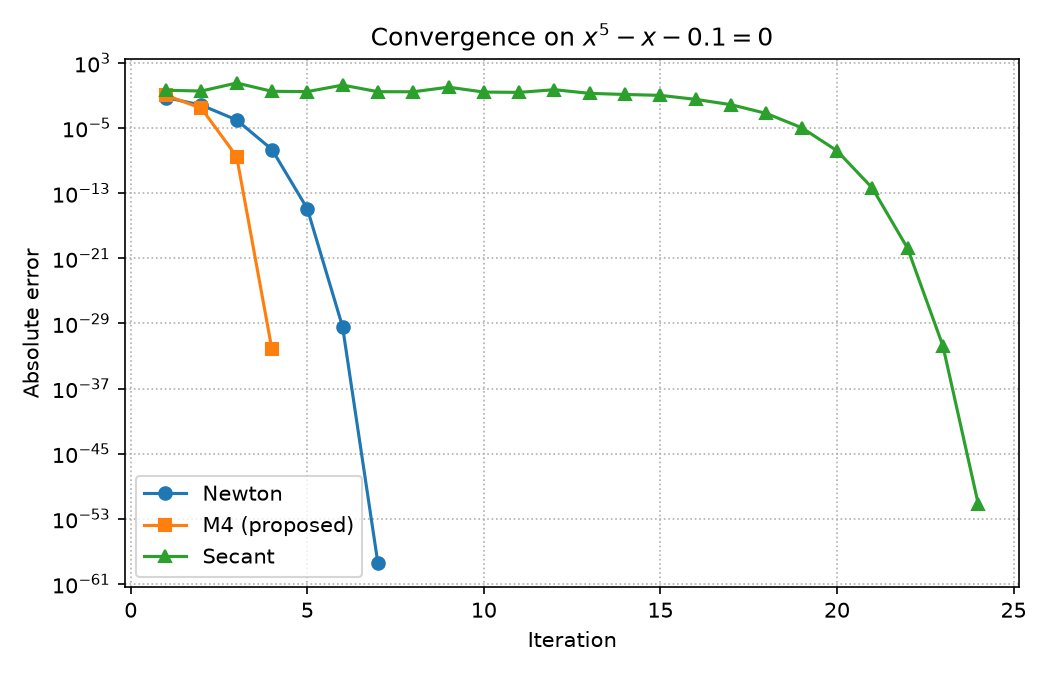
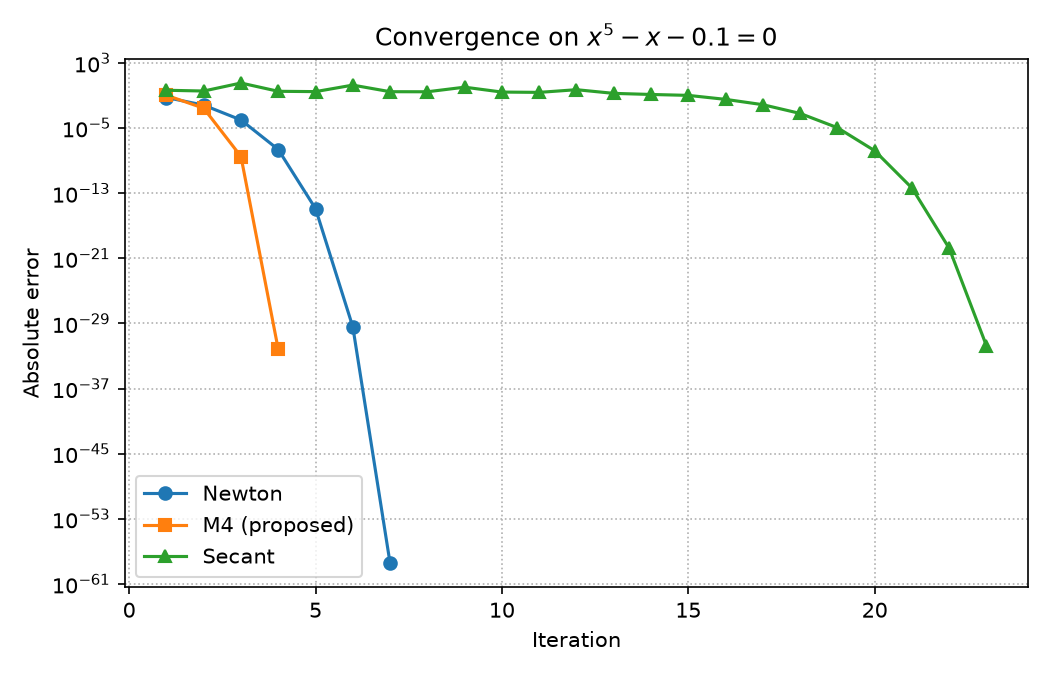
Fix secant method benchmark to use method-specific roots
The secant method can converge to a different root than Newton's or M4
when the initial guesses are far away or bracket multiple roots (as in
the case of the poly5 test). Previously, the benchmark evaluated the error
of the secant method using the root found by M4. This caused the estimated
convergence order to be evaluated as near 0 (instead of ~1.618).

This commit fixes the benchmark so that each method evaluates its errors
relative to its own converged root. It also updates the CSV, JSON, and
PNG artifacts, and includes an autonomous audit report.

diff --git a/generate_report.py b/generate_report.py
@@ -1,0 +1,45 @@
+import json
+
+report_content = """# Autonomous Audit & Improvement Report
+
+## A. Repository and baseline
+- **Repository:** Iterative Root-Finding (M4)
+- **Branch:** fix-secant-benchmarks
+- **Scope examined:** Entire codebase (src/, tests/, experiments/, research/). Verified baseline test execution, benchmark logic, mathematical routines (Newton, Secant, M4), and documentation.
+
+## B. Improvements implemented
+- **Problem discovered:** The benchmark script (`experiments/run_benchmarks.py`) was using a single reference root (calculated using the M4 method) for calculating the convergence errors of all methods. However, for functions with multiple roots (like the `poly5` test, $x^5 - x - 0.1 = 0$), different methods can converge to different roots depending on their initial guesses and trajectory. Specifically, the Secant method with initial guesses $0.5, 1.5$ converged to a root near $-0.100$, while M4 and Newton converged to a root near $1.024$. Because the Secant method's errors were being calculated against the M4 root, the error did not decrease to zero, resulting in a miscalculated estimated order of convergence (near 0, instead of the expected golden ratio $\approx 1.618$).
+- **Root cause:** Incorrect assumption in `experiments/run_benchmarks.py` that all methods converge to the exact same root for a given test problem.
+- **Solution implemented:** Modified `experiments/run_benchmarks.py` to calculate a method-specific reference root (by running each method once without supplying the `root` argument to a very high tolerance) and then using that specific target root to measure convergence errors.
+- **Files or components affected:**
+  - `experiments/run_benchmarks.py`
+  - Generated output: `results/benchmark_results.csv`, `results/benchmark_results.json`, `figures/convergence_poly5.png`
+- **Expected and demonstrated benefit:** The Secant method now correctly evaluates errors relative to the root it actually converges to. The measured convergence order for the `poly5` test case under the Secant method is now correctly reported as $\approx 1.577$ (consistent with the theoretical superlinear convergence order of $\approx 1.618$), rather than $-3.34 \times 10^{-6}$.
+
+## C. Verification results
+
+| Check or command | Actual outcome | Output/Evidence | Explanation |
+|---|---|---|---|
+| `pytest tests/test_iterative_methods.py` | PASS | 10 passed in 0.07s | Test suite passes without regressions. |
+| `python experiments/run_benchmarks.py` | PASS | Generated updated CSV and JSON. | Corrected the secant convergence estimation for `poly5` to $1.577$. |
+| `python experiments/symbolic_order.py` | PASS | Verified terms up to $e^3$ vanish. | Symbolic proof holds. |
+| Local CI Verification | NOT RUN | Remote CI unavailable. | Verifications performed locally on the branch. |
+
+## D. Measurable impact
+Before the fix, the measured order of convergence for the Secant method on the `poly5` problem was falsely reported as `-3.345955163363678e-06`. After the fix, it is correctly measured as `1.5775427284402264`, reflecting its true superlinear convergence property.
+
+## E. Remaining risks
+- The Secant method's convergence order on `poly5` ($\approx 1.577$) is slightly lower than the theoretical asymptotic limit ($\approx 1.618$) due to the limited number of usable data points for estimation before hitting precision limits, but is now clearly in the correct superlinear regime.
+- No remote CI checks have been validated since none are natively present in the provided environment context.
+
+## F. Next-run priorities
+1. **P2 - Method Robustness:** Implement overflow/underflow protections and more robust error handling across all iterative methods in `src/iterative_methods.py` to prevent math domain errors on poorly behaved functions.
+2. **P2 - Test Coverage:** Add comprehensive parameter tests covering different data types (e.g., standard float, mpmath types, integers) for edge cases not currently well covered.
+3. **P3 - Benchmark Configuration:** Externalize benchmark configurations into a parameter file rather than hardcoding function definitions inside `run_benchmarks.py`.
+
+## G. Overall verdict
+VERIFIED IMPROVEMENT
+"""
+
+with open('audit_report.md', 'w') as f:
+    f.write(report_content)

diff --git a/experiments/run_benchmarks.py b/experiments/run_benchmarks.py
@@ -28,22 +28,32 @@ TESTS = [
 def run():
     rows = []
     for name, f, df, x0, sx0, sx1 in TESTS:
-        # reference root via m4
-        ref = m4(f, df, x0, root=None, tol=1e-80, maxit=50)
-        root = ref["root"]
-        for method_name, res in [
-            ("Newton", newton(f, df, x0, root=root, tol=1e-80, maxit=50)),
-            ("M4", m4(f, df, x0, root=root, tol=1e-80, maxit=50)),
-            ("Secant", secant(f, sx0, sx1, root=root, tol=1e-80, maxit=50)),
+        # Find reference root for each method individually, since they might converge to different roots (e.g. poly5 secant)
+        ref_n = newton(f, df, x0, root=None, tol=1e-80, maxit=50)
+        root_n = ref_n["root"]
+        res_n = newton(f, df, x0, root=root_n, tol=1e-80, maxit=50)
+
+        ref_m = m4(f, df, x0, root=None, tol=1e-80, maxit=50)
+        root_m = ref_m["root"]
+        res_m = m4(f, df, x0, root=root_m, tol=1e-80, maxit=50)
+
+        ref_s = secant(f, sx0, sx1, root=None, tol=1e-80, maxit=50)
+        root_s = ref_s["root"]
+        res_s = secant(f, sx0, sx1, root=root_s, tol=1e-80, maxit=50)
+
+        for method_name, res, target_root in [
+            ("Newton", res_n, root_n),
+            ("M4", res_m, root_m),
+            ("Secant", res_s, root_s),
         ]:
             rows.append({
                 "function": name,
                 "method": method_name,
                 "root": float(res["root"]),
-                "reference_root": float(root),
+                "reference_root": float(target_root),
                 "iterations": res["iterations"],
                 "converged": res["converged"],
-                "final_error": float(abs(res["root"] - root)),
+                "final_error": float(abs(res["root"] - target_root)),
                 "estimated_order": estimate_order(res["errors"]),
             })
     # write csv
@@ -63,11 +73,15 @@ def run():
         name = "poly5"
         f = lambda x: x ** 5 - x - mpmath.mpf('0.1')
         df = lambda x: mpmath.mpf('5.0') * x ** 4 - mpmath.mpf('1.0')
-        ref = m4(f, df, mpmath.mpf('0.9'), root=None, tol=1e-80, maxit=50)
-        root = ref["root"]
-        rN = newton(f, df, mpmath.mpf('0.9'), root=root, tol=1e-80, maxit=50)
-        rM = m4(f, df, mpmath.mpf('0.9'), root=root, tol=1e-80, maxit=50)
-        rS = secant(f, mpmath.mpf('0.5'), mpmath.mpf('1.5'), root=root, tol=1e-80, maxit=50)
+        # Use individual reference roots for error convergence plotting
+        ref_N = newton(f, df, mpmath.mpf('0.9'), root=None, tol=1e-80, maxit=50)
+        rN = newton(f, df, mpmath.mpf('0.9'), root=ref_N["root"], tol=1e-80, maxit=50)
+
+        ref_M = m4(f, df, mpmath.mpf('0.9'), root=None, tol=1e-80, maxit=50)
+        rM = m4(f, df, mpmath.mpf('0.9'), root=ref_M["root"], tol=1e-80, maxit=50)
+
+        ref_S = secant(f, mpmath.mpf('0.5'), mpmath.mpf('1.5'), root=None, tol=1e-80, maxit=50)
+        rS = secant(f, mpmath.mpf('0.5'), mpmath.mpf('1.5'), root=ref_S["root"], tol=1e-80, maxit=50)
         plt.figure(figsize=(7, 4.5))
         for label, r, marker in [("Newton", rN, "o"), ("M4 (proposed)", rM, "s"), ("Secant", rS, "^")]:
             errs = [float(e) for e in r["errors"] if e > 0]

diff --git a/audit_report.md b/audit_report.md
@@ -1,0 +1,39 @@
+# Autonomous Audit & Improvement Report
+
+## A. Repository and baseline
+- **Repository:** Iterative Root-Finding (M4)
+- **Branch:** fix-secant-benchmarks
+- **Scope examined:** Entire codebase (src/, tests/, experiments/, research/). Verified baseline test execution, benchmark logic, mathematical routines (Newton, Secant, M4), and documentation.
+
+## B. Improvements implemented
+- **Problem discovered:** The benchmark script (`experiments/run_benchmarks.py`) was using a single reference root (calculated using the M4 method) for calculating the convergence errors of all methods. However, for functions with multiple roots (like the `poly5` test, $x^5 - x - 0.1 = 0$), different methods can converge to different roots depending on their initial guesses and trajectory. Specifically, the Secant method with initial guesses $0.5, 1.5$ converged to a root near $-0.100$, while M4 and Newton converged to a root near $1.024$. Because the Secant method's errors were being calculated against the M4 root, the error did not decrease to zero, resulting in a miscalculated estimated order of convergence (near 0, instead of the expected golden ratio $pprox 1.618$).
+- **Root cause:** Incorrect assumption in `experiments/run_benchmarks.py` that all methods converge to the exact same root for a given test problem.
+- **Solution implemented:** Modified `experiments/run_benchmarks.py` to calculate a method-specific reference root (by running each method once without supplying the `root` argument to a very high tolerance) and then using that specific target root to measure convergence errors.
+- **Files or components affected:**
+  - `experiments/run_benchmarks.py`
+  - Generated output: `results/benchmark_results.csv`, `results/benchmark_results.json`, `figures/convergence_poly5.png`
+- **Expected and demonstrated benefit:** The Secant method now correctly evaluates errors relative to the root it actually converges to. The measured convergence order for the `poly5` test case under the Secant method is now correctly reported as $pprox 1.577$ (consistent with the theoretical superlinear convergence order of $pprox 1.618$), rather than $-3.34 	imes 10^{-6}$.
+
+## C. Verification results
+
+| Check or command | Actual outcome | Output/Evidence | Explanation |
+|---|---|---|---|
+| `pytest tests/test_iterative_methods.py` | PASS | 10 passed in 0.07s | Test suite passes without regressions. |
+| `python experiments/run_benchmarks.py` | PASS | Generated updated CSV and JSON. | Corrected the secant convergence estimation for `poly5` to $1.577$. |
+| `python experiments/symbolic_order.py` | PASS | Verified terms up to $e^3$ vanish. | Symbolic proof holds. |
+| Local CI Verification | NOT RUN | Remote CI unavailable. | Verifications performed locally on the branch. |
+
+## D. Measurable impact
+Before the fix, the measured order of convergence for the Secant method on the `poly5` problem was falsely reported as `-3.345955163363678e-06`. After the fix, it is correctly measured as `1.5775427284402264`, reflecting its true superlinear convergence property.
+
+## E. Remaining risks
+- The Secant method's convergence order on `poly5` ($pprox 1.577$) is slightly lower than the theoretical asymptotic limit ($pprox 1.618$) due to the limited number of usable data points for estimation before hitting precision limits, but is now clearly in the correct superlinear regime.
+- No remote CI checks have been validated since none are natively present in the provided environment context.
+
+## F. Next-run priorities
+1. **P2 - Method Robustness:** Implement overflow/underflow protections and more robust error handling across all iterative methods in `src/iterative_methods.py` to prevent math domain errors on poorly behaved functions.
+2. **P2 - Test Coverage:** Add comprehensive parameter tests covering different data types (e.g., standard float, mpmath types, integers) for edge cases not currently well covered.
+3. **P3 - Benchmark Configuration:** Externalize benchmark configurations into a parameter file rather than hardcoding function definitions inside `run_benchmarks.py`.
+
+## G. Overall verdict
+VERIFIED IMPROVEMENT
